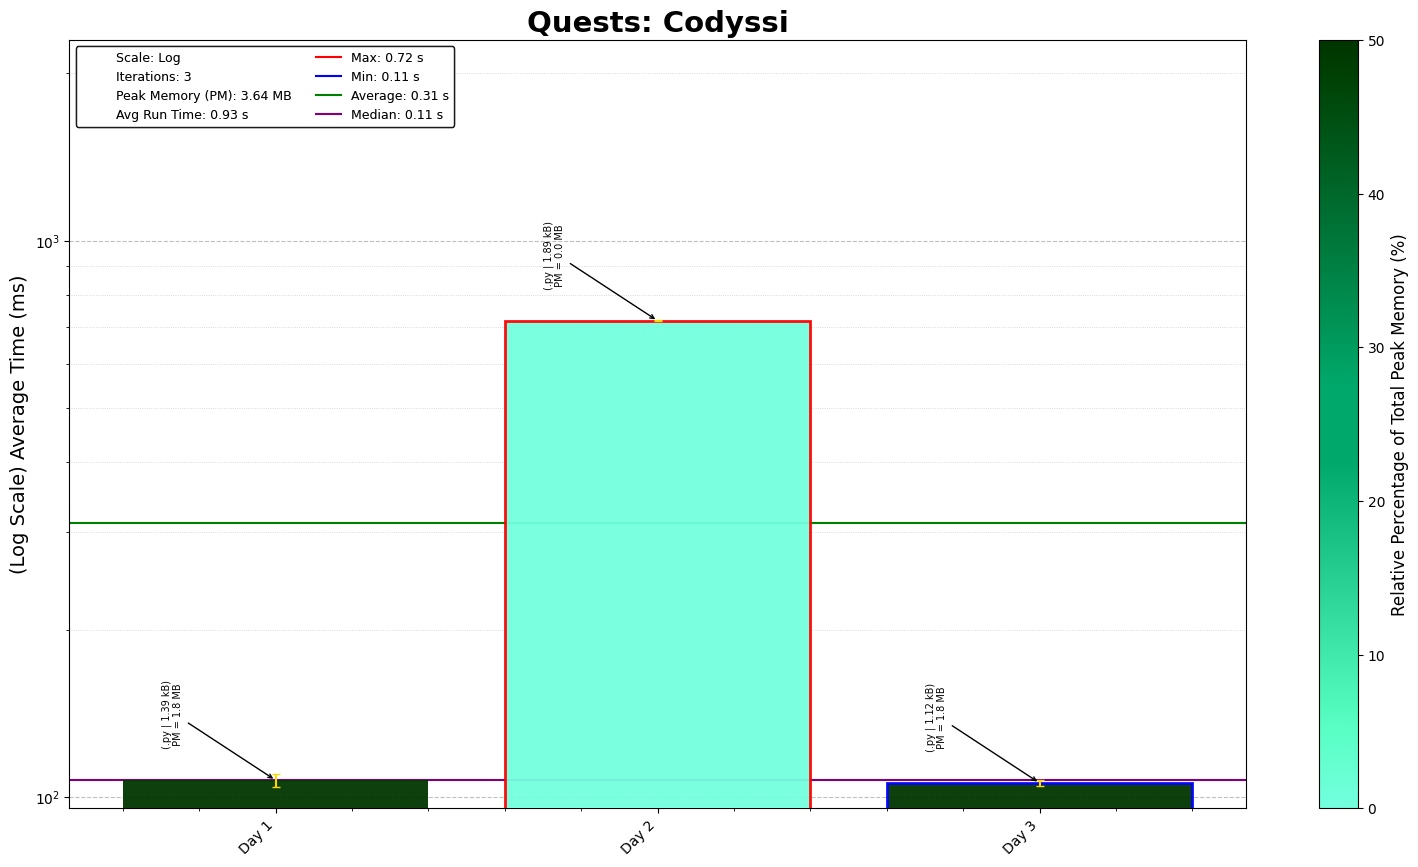
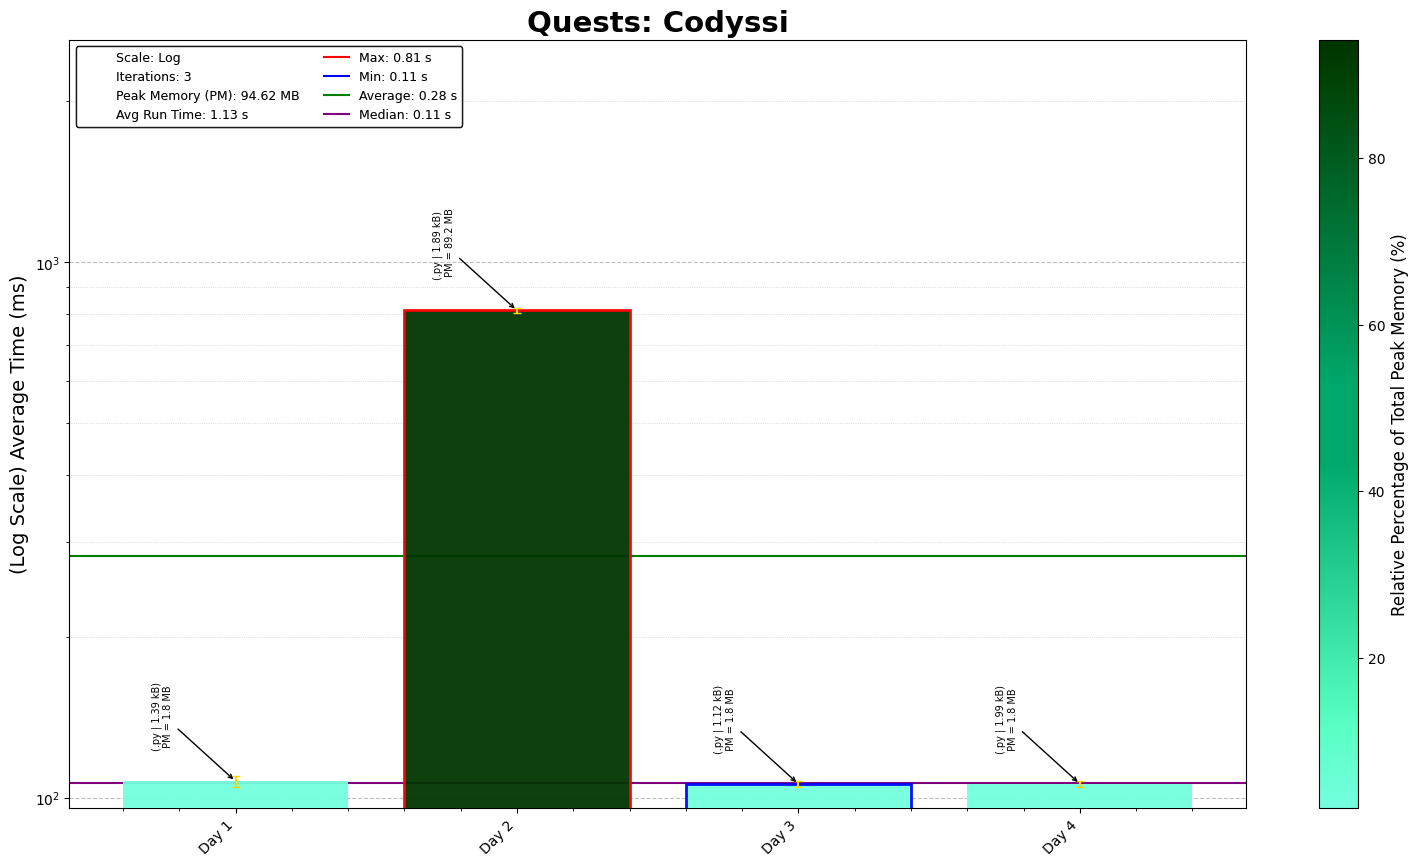
Codyssi Day 4

diff --git a/Codyssi/2025/04/CodyssiDay04.py b/Codyssi/2025/04/CodyssiDay04.py
@@ -1,0 +1,54 @@
+"""Codyssi Puzzles - Problem 4
+    Solution Started: Apr 8, 2025
+    Puzzle Link: https://www.codyssi.com/view_problem_8?
+    Solution by: Abbas Moosajee
+    Brief: [Aeolian Transmissions]
+    """
+
+#!/usr/bin/env python3
+
+import os, re, copy, string
+
+# Load the input data from the specified file path
+D04_file = "Day04_input.txt"
+D04_file_path = os.path.join(os.path.dirname(os.path.abspath(__file__)), D04_file)
+
+# Read and sort input data into a grid
+with open(D04_file_path) as file:
+    input_data = file.read().strip().split('\n')
+
+LETTER_DICT = {letter: idx for idx, letter in enumerate(string.ascii_uppercase, start=1)}
+NUMBER_DICT = {num_str: idx for idx, num_str in enumerate("0123456789")}
+COMBINED_DICT = {**LETTER_DICT, **NUMBER_DICT}
+
+memory_reqd = [LETTER_DICT[letter] for letter in ''.join(input_data)]
+print("Part 1:", sum(memory_reqd))
+
+def compress_file(file_data: str) -> int:
+    file_len = len(file_data)
+    save_chars = file_len // 10
+    comp_data = file_len - (save_chars * 2)
+    new_file = f"{file_data[:save_chars]}{comp_data}{file_data[-save_chars:]}"
+    comp_file_size = [COMBINED_DICT[char_str] for char_str in new_file]
+    # print(f"{file_data} -> {new_file}, Comp_size: {sum(comp_file_size)}")
+    return sum(comp_file_size)
+
+memory_comp = [compress_file(file_data) for file_data in input_data]
+print("Part 2:", sum(memory_comp))
+
+def lossless_compression(file_data: str) -> int:
+    file_len = len(file_data)
+    new_file = ""
+    count = 1
+    for idx, char in enumerate(file_data):
+        if (idx + 1) < file_len and char == file_data[idx + 1]:
+            count += 1
+        else:
+            new_file += f"{count}{char}"
+            count = 1
+    comp_file_size = [COMBINED_DICT[char_str] for char_str in new_file]
+    # print(f"{file_data} -> {new_file}, Comp_size: {sum(comp_file_size)}")
+    return sum(comp_file_size)
+
+memory_lossless = [lossless_compression(file_data) for file_data in input_data]
+print("Part 2:", sum(memory_lossless))

diff --git a/Codyssi/2025/README_Codyssi2025.md b/Codyssi/2025/README_Codyssi2025.md
@@ -1,0 +1,11 @@
+# Codyssi Problems - 2025 Challenges
+![Codyssi 2025 Run Time](Codyssi_Log_plot.png)
+
+## Day-by-Day Coding Overview
+
+1. **Problem 1 - Compass Calibration**: Fairly simple arithmetic, although the use of zip to iterate through two lists simultaneously was interesting.
+2. **Problem 2 - Absurd Arithmetic**: Sorting through numbers based on a series of arithmetic functions written in text.
+3. **Problem 3 - Supplies in Surplus**: Sorting through a series of boxes, and keeping track of its different properties.
+4. **Problem 4 - Aeolian Transmissions**: Tracking memory of files and identifying different compression for the file.
+---
+
